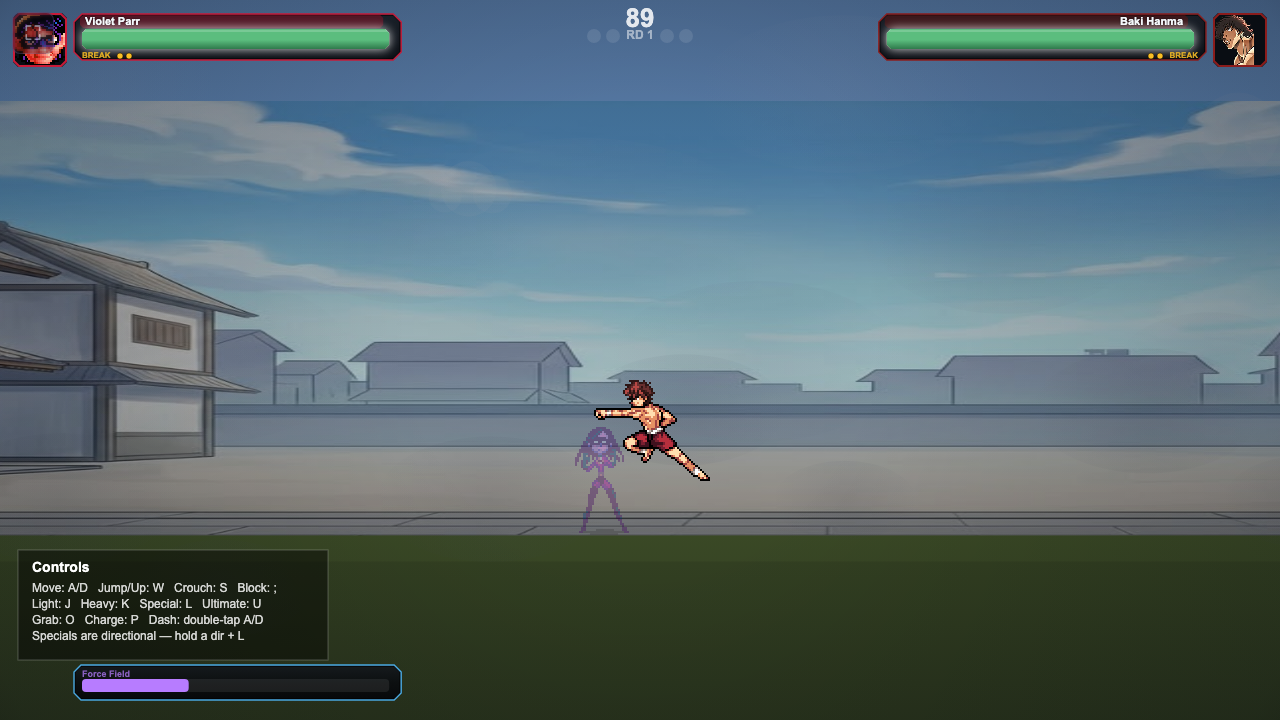
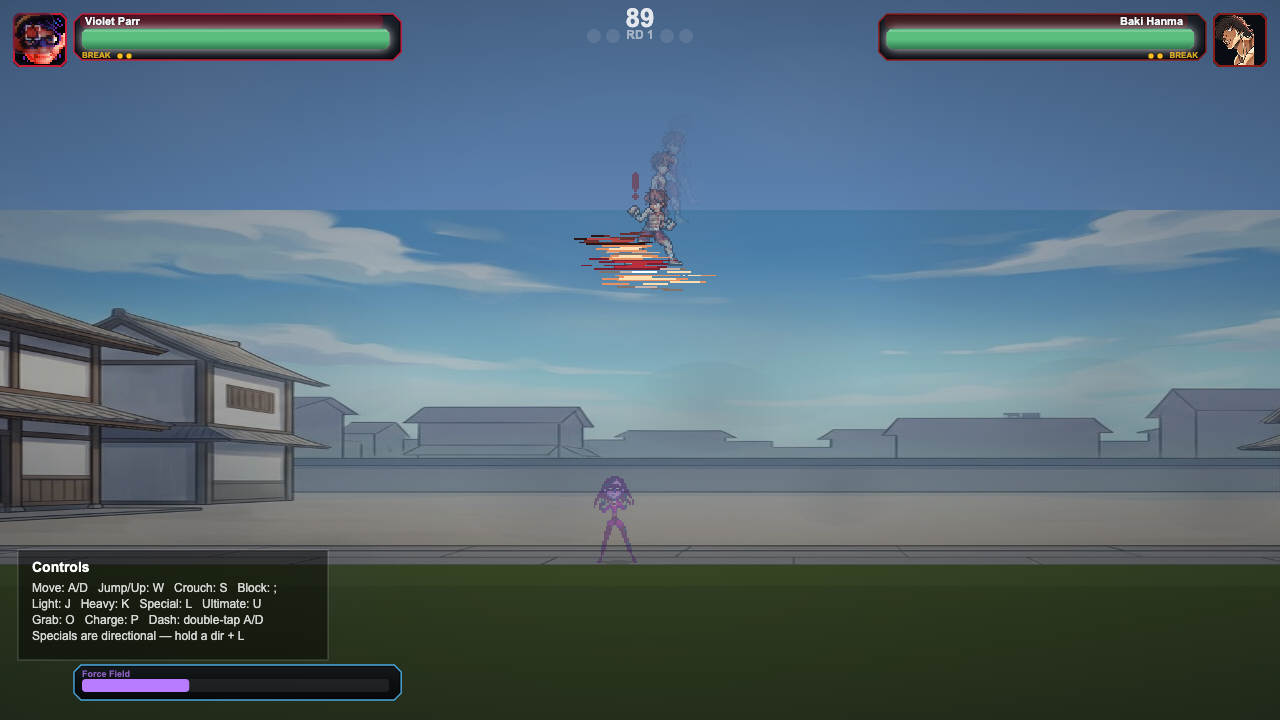
Violet Parr (violet) phase 6: defense
- Bubble Shield: 6 s (360f) cooldown from the cast, on top of its 20 cost.
  A recast inside the cooldown is refused and nothing is spent.
- Phase Step (back, back + Light): uses the R7 strip. Back-step with
  i-frames on frames 3-12 (press frame = 1), free, 5 s (300f) cooldown.
  Drawn at 55% alpha during the i-frames (render-only).
- Protective Instinct: once per round, below 20% health, the next incoming
  strike or projectile pops a free 30f dome. The dome catches that hit
  (projectiles are reflected) and has no cost or cooldown. State lives in
  f._violet and resets with the round.

Fix: body-less moves (the specials and Phase Step) no longer get the shared
default 50 px strike box. getAttackHitbox returns null for them through a
violet-gated hook. Before this they clashed with incoming strikes and both
attacks were cancelled.

New hooks (apply_hooks.py --phase 6): combat.js getAttackHitbox (violetNoBox).
harness/violet_defense.test.mjs 16/0. Moveset 42/0, combos 17/0, stats,
vanish and determinism all green.

Gate:
  determinism 14/0
  combo-standard 231/9 (identical to main)
  roster integrity passes
  frame-data diff zero
  render check passes default and invisible

diff --git a/violetState.js b/violetState.js
@@ -2,14 +2,14 @@
 // no Math.random, no gameRng, no wall clock; any variation comes from vhash(match seed, frame, player index).
 // Every export is a strict no-op for any other rosterKey. Render-only presentation (alpha, flashes, shake, particles)
 // never lives here — violetFx.js reads this state.
-import { violet as V_CHAR, ENERGY, WALK_SPEED_STAT, RUN_SPEED_STAT, VANISH, vhash, MOVES, PUSH, SHIELD, BALL, TRAP, ULT, MOTION } from './violetData.js'
+import { violet as V_CHAR, ENERGY, WALK_SPEED_STAT, RUN_SPEED_STAT, VANISH, vhash, MOVES, PUSH, SHIELD, BALL, TRAP, ULT, MOTION, DEFENSE } from './violetData.js'
 
 export const isViolet = f => f?.rosterKey === 'violet'
 const fresh0 = () => ({ tick: 0, clock: 0, hp: null, run: false, prev: {}, edges: {}, used: {}, downTaps: [], dir: 5, toks: [], fwdTaps: [],
   inv: null, vanishCd: 0, reappear: 0, ambushArmed: false,
-  push: null, trap: null, ult: null, lastHit: null, serial: 0,
+  push: null, trap: null, ult: null, lastHit: null, serial: 0, cd: { shield: 0, phase: 0 }, pshield: 0, instinct: null,
   stats: { hitsLanded: 0, hitsTaken: 0, energyFromHits: 0, runs: 0, vanishes: 0, vanishEnds: {}, ambushHits: 0, rejects: 0,
-    moves: {}, pushHits: 0, pushBlocked: 0, shieldBlocks: 0, reflects: 0, ballHits: 0, ballAbsorbs: 0, traps: 0, trapFizzles: 0, ultHits: 0, chains: 0, jumpCancels: 0 }, cues: [] })
+    moves: {}, pushHits: 0, pushBlocked: 0, shieldBlocks: 0, reflects: 0, ballHits: 0, ballAbsorbs: 0, traps: 0, trapFizzles: 0, ultHits: 0, chains: 0, jumpCancels: 0, phaseSteps: 0, phaseDodges: 0, instincts: 0 }, cues: [] })
 export const vState = f => f._violet ||= fresh0()
 const grounded = f => !!(f.onGround || f.grounded)
 const addEnergy = (f, n) => { f.energy = Math.min(f.maxEnergy || ENERGY.max, (f.energy || 0) + n) }
@@ -189,7 +189,7 @@ export function vStrike(f, t, P, W) {
 }
 
 // ── move start (command layer → here). Specials are grounded; normals follow the air / ground split. ──
-const AIR_ONLY = ['air'], GROUND = ['light', 'heavy', 'vLow', 'up', 'vPush', 'vShield', 'vBall', 'vTrap', 'vUlt']
+const AIR_ONLY = ['air'], GROUND = ['light', 'heavy', 'vLow', 'up', 'vPush', 'vShield', 'vBall', 'vTrap', 'vUlt', 'vPhase']
 export function startVMove(f, key, W, opp, { cancel = false, chain = 0 } = {}) {
   if (!isViolet(f)) return false
   const s = vState(f), md = MOVES[key], g = grounded(f)
@@ -199,6 +199,8 @@ export function startVMove(f, key, W, opp, { cancel = false, chain = 0 } = {}) {
   if (GROUND.includes(key) && !g) return md.isSpecial ? rejectV(f, W) : false
   if (key === 'vPush' && s.push) return rejectV(f, W)                 // one ring on screen
   if (key === 'vTrap' && s.trap) return rejectV(f, W)                 // one trap at a time
+  if (key === 'vShield' && s.cd.shield > 0) return rejectV(f, W)      // 6 s cooldown (nothing spent)
+  if (key === 'vPhase' && s.cd.phase > 0) return rejectV(f, W)        // 5 s cooldown
   if ((md.cost || 0) > (f.energy || 0)) return rejectV(f, W)
   if (cancel) endAttack(f)
   if (!E.startMove || !E.startMove(f, key, md)) return false
@@ -209,7 +211,9 @@ export function startVMove(f, key, W, opp, { cancel = false, chain = 0 } = {}) {
   a.hasHit = !!md.noBody
   f.isBlocking = false; f.isCharging = false
   if (g) f.vx = 0
-  if (key === 'vBall') { f.dashTimer = 0; f.isDashing = false }
+  if (key === 'vBall' || key === 'vPhase') { f.dashTimer = 0; f.isDashing = false }
+  if (key === 'vShield') s.cd.shield = DEFENSE.shieldCooldown
+  if (key === 'vPhase') { s.cd.phase = DEFENSE.phaseCooldown; s.stats.phaseSteps++ }
   if (key === 'vTrap') {
     const t = nearestFoe(f, W, opp)
     const x = t ? ctrX(t) : ctrX(f) + (f.facing || 1) * 220, y = t ? ctrY(t) : ctrY(f)
@@ -222,6 +226,7 @@ export function startVMove(f, key, W, opp, { cancel = false, chain = 0 } = {}) {
 
 // ── defensive states read by combat.js (violet-gated) ──
 export function shieldUp(f) {
+  if (isViolet(f) && f._violet?.pshield > 0) return true            // Protective Instinct dome
   const a = isViolet(f) && vLive(f); if (!a || a.vi.key !== 'vShield') return false
   const e = elapsed(a), md = MOVES.vShield
   return e >= md.startup && e < md.startup + md.active
@@ -230,10 +235,14 @@ export function ballArmored(f) {
   const a = isViolet(f) && vLive(f); if (!a || a.vi.key !== 'vBall') return false
   return elapsed(a) < MOVES.vBall.startup + MOVES.vBall.active
 }
+// combat.getAttackHitbox hook: body-less moves (specials, Phase Step) have NO strike box — without this the shared
+// default (rangeX 0 → 50 px) would give them a box that clashes with incoming strikes.
+export const violetNoBox = (f, a) => isViolet(f) && !!a?.vi && !!MOVES[a.vi.key]?.noBody
 // Melee absorb (combat.js, beside absorbBatman): the dome stops every non-grab strike while it is up.
 export function absorbViolet(f, source, attack) {
-  if (!isViolet(f) || !attack || !shieldUp(f)) return false
+  if (!isViolet(f) || !attack) return false
   if (attack.damageType === 'grab' || attack.category === 'grab' || attack.isGrab) return false
+  if (!shieldUp(f) && !instinct(f)) return false
   const s = vState(f); s.stats.shieldBlocks++; cue(f, 'shieldBlock')
   if (source) source.vx = (Math.sign(ctrX(source) - ctrX(f)) || 1) * 4
   return true
@@ -243,7 +252,7 @@ export function absorbViolet(f, source, attack) {
 export function violetProjectile(f, proj) {
   if (!isViolet(f) || !proj || proj.owner === f) return false
   const s = vState(f)
-  if (shieldUp(f)) {
+  if (shieldUp(f) || instinct(f)) {
     const k = SHIELD.reflect
     proj.vx = -(proj.vx || 0) * k; if (proj.vy) proj.vy *= k
     if (proj.dir != null) proj.dir = -proj.dir
@@ -256,6 +265,20 @@ export function violetProjectile(f, proj) {
   }
   if (ballArmored(f)) { s.stats.ballAbsorbs++; cue(f, 'shieldBlock'); return 'absorb' }
   return false
+}
+// ── PHASE 6: DEFENSE ──
+// Protective Instinct: once per round, below 20 % health, the NEXT incoming strike / projectile pops a free 30f dome
+// that catches it (returns true = this hit is absorbed). Armed state, use and timer live in f._violet (GAME_STATE).
+export function instinct(f) {
+  const s = vState(f)
+  if (s.instinct === 'used' || f.health <= 0 || f.health >= (f.maxHealth || 900) * DEFENSE.instinctBelow) return false
+  s.instinct = 'used'; s.pshield = DEFENSE.instinctFrames; s.stats.instincts++; cue(f, 'instinct')
+  return true
+}
+export function phaseInvuln(f) {
+  const a = isViolet(f) && vLive(f); if (!a || a.vi.key !== 'vPhase') return false
+  const fr = elapsed(a) + 1                                              // press frame = frame 1
+  return fr >= DEFENSE.phaseIframes[0] && fr <= DEFENSE.phaseIframes[1]
 }
 // 85 % per hit (combat._comboScale hook, the Zoro / Buggy precedent): hit n of a combo deals 0.85^(n−1).
 export const violetComboScale = f => Math.pow(0.85, Math.max(0, f.comboCounter || 0))
@@ -297,6 +320,9 @@ function tickMove(f, s, W, opp) {
         }
       }
     } else if (e === md.startup + md.active) f.vx = 0
+  }
+  if (k === 'vPhase') {
+    if (e < md.startup + md.active) f.vx = -dir * DEFENSE.phaseSpeed; else if (e === md.startup + md.active) f.vx = 0
   }
   if (k === 'vUlt' && e === md.startup && !s.ult) {
     const t = nearestFoe(f, W, opp)
@@ -387,8 +413,16 @@ export function tickViolet(f, opp, raw, W) {
     else if (s.inv.t >= VANISH.maxFrames) endVanish(f, 'timeout', W)
     else if ((f.energy || 0) <= 0) endVanish(f, 'empty', W)
   }
+  // ── PHASE 6: cooldowns, instinct dome, Phase Step i-frames ──
+  if (s.cd.shield > 0) s.cd.shield--
+  if (s.cd.phase > 0) s.cd.phase--
+  if (s.pshield > 0) s.pshield--
   // ── PHASE 4: moves / payloads / trap / ultimate ──
   tickMove(f, s, W, opp); tickPush(f, s, W, opp); tickTrap(f, s, W, opp); tickUlt(f, s, W, opp, tookHit)
+  // i-frames: 2 because her own combat update decrements invulnTimer before the foe's strike resolves this frame;
+  // cleared on the first frame after the window so frame 13 is hittable again
+  if (phaseInvuln(f)) { f.invulnTimer = Math.max(f.invulnTimer || 0, 2); s.phaseInv = true }
+  else { if (s.phaseInv && (f.invulnTimer || 0) <= 1) f.invulnTimer = 0; s.phaseInv = false }
   // RUN: a double-tap dash that ends with forward still held keeps going at runSpeed 8.0 until forward is released,
   // she attacks, leaves the ground or is hit. Walking speed is 5.4.
   const fw = !!(f.facing === -1 ? raw.left : raw.right)

diff --git a/violet.js b/violet.js
@@ -5,14 +5,17 @@
 //   ↓↘→ + P      FORCE PUSH (12)        ←↙↓ + P   BUBBLE SHIELD (20)      → → + P   FORCE BALL (15)
 //   ↓↙← + P      FIELD TRAP (22)        ↓↓ + P    VANISH toggle (15)       P alone   FORCE PUSH
 //   ↓↘→↓↘→ + P or Ultimate             FULL FORCE (100)
+//   ← ← + Light   PHASE STEP (free; i-frames 3–12; 5 s cooldown)    Bubble Shield: 6 s cooldown
 // Cancels (clean hit, recovery): Jab → Jab (once) / Low / Heavy / Launcher · Low → Heavy / Launcher · Heavy → Launcher ·
 // any grounded normal → specials / FULL FORCE · a clean Launcher can be jump-cancelled (violetState.violetLocked).
 import { startMove, cancelWindowOpen, getComboScale, getComboHitstunScale } from './combat.js'
 import { isViolet, vState, freshEdge, useEdge, doubleDownSpecial, enterVanish, endVanish, registerVioletEngine, startVMove, rejectV } from './violetState.js'
-import { CHAIN, SPECIAL_FROM } from './violetData.js'
+import { CHAIN, SPECIAL_FROM, DEFENSE, MOTION } from './violetData.js'
 
 registerVioletEngine({ startMove, comboScale: getComboScale, hitstunScale: typeof getComboHitstunScale === 'function' ? getComboHitstunScale : null })
 
+const phaseStepInput = s => { const [a, b] = s.backTaps || [], e = s.edges.light
+  return (s.backTaps || []).length === 2 && b - a <= DEFENSE.phaseTap && e.tick >= b && e.tick - b <= MOTION.press }
 const COMMITTED = new Set(['vPush', 'vShield', 'vBall', 'vTrap', 'vUlt', 'vPhase', 'air'])
 const SPECIAL_OF = { push: 'vPush', shield: 'vShield', ball: 'vBall', trap: 'vTrap', ult: 'vUlt' }
 
@@ -64,6 +67,8 @@ export function updateVioletCommandCombat(f, inp, opp, W) {
   if (f.attackCooldown > 0 || inp.block) return 'grab'
   if (freshEdge(s, 'ultimate')) { useEdge(s, 'ultimate'); startVMove(f, 'vUlt', W, opp); return 'consumed' }
   if (freshEdge(s, 'special')) { doSpecial(f, s, W, opp, false); return 'consumed' }
+  // PHASE STEP ←←+Light (back-step, i-frames 3–12, 5 s cooldown) — takes the Light press when the double-back is fresh
+  if (freshEdge(s, 'light') && phaseStepInput(s)) { useEdge(s, 'light'); startVMove(f, 'vPhase', W, opp); return 'consumed' }
   for (const k of ['upAttack', 'light', 'heavy']) {
     if (!freshEdge(s, k)) continue
     useEdge(s, k)

diff --git a/violetHarness.js b/violetHarness.js
@@ -1,9 +1,9 @@
 // Test-only accessor for harness/violet*.mjs (exposed as __harness.violetTest; harness URLs only). Read-mostly: the only
 // writers are reset / setEnergy (scenario setup before driving real inputs).
 import { getAttackHitbox } from './combat.js'
-import { violet, MOVES, TIMELINE, SCALE, ENERGY, VANISH, PUSH, SHIELD, BALL, TRAP, ULT, MOTION } from './violetData.js'
+import { violet, MOVES, TIMELINE, SCALE, ENERGY, VANISH, PUSH, SHIELD, BALL, TRAP, ULT, MOTION, DEFENSE } from './violetData.js'
 import { violetAlpha } from './violetView.js'
-import { clearViolet, vState, shieldUp, startVMove } from './violetState.js'
+import { clearViolet, vState, shieldUp, startVMove, phaseInvuln } from './violetState.js'
 import { VIOLET_ANIM } from './violetSprites.js'
 import { VIOLET_SKINS } from './violetSkins.js'
 export function violetHarnessApi(g) {
@@ -20,8 +20,10 @@ export function violetHarnessApi(g) {
       g.projectiles?.().push(p); return true },
     projs: () => (g.projectiles?.() || []).map(p => ({ x: p.x, vx: p.vx, owner: p.owner === g.p1() ? 'p1' : p.owner === g.p2() ? 'p2' : '?', refl: p._violetReflected || 0, name: p.name })),
     shieldUp: (w = 'p1') => shieldUp(raw(w)),
+    phaseInvuln: (w = 'p1') => phaseInvuln(raw(w)),
+    setHp: (hp, w = 'p1') => { raw(w).health = hp },
     skins: () => VIOLET_SKINS.map(s => ({ id: s.id, name: s.name })),
-    data: () => clone({ moves: MOVES, timeline: TIMELINE, scale: SCALE, stats: violet.stats, energy: ENERGY, traits: violet.traits, vanish: VANISH, push: PUSH, shield: SHIELD, ball: BALL, trap: TRAP, ult: ULT, motion: MOTION }),
+    data: () => clone({ moves: MOVES, timeline: TIMELINE, scale: SCALE, stats: violet.stats, energy: ENERGY, traits: violet.traits, vanish: VANISH, push: PUSH, shield: SHIELD, ball: BALL, trap: TRAP, ult: ULT, motion: MOTION, defense: DEFENSE }),
     state: (w = 'p1') => { const f = raw(w), a = f.currentAttack, act = f._lastSpriteAction || null
       return { key: f.rosterKey, hp: f.health, maxHp: f.maxHealth, energy: f.energy, maxEnergy: f.maxEnergy, x: f.x, y: f.y, w: f.w, h: f.h, vx: f.vx, vy: f.vy, facing: f.facing,
         grounded: !!(f.onGround || f.grounded), jumpCount: f.jumpCount || 0, blocking: !!f.isBlocking,

diff --git a/violetData.js b/violetData.js
@@ -45,8 +45,15 @@ export const MOVES = {
   vShield: sp(4, 40, 10, { cost: 20 }),                      // BUBBLE SHIELD ←↙↓+P: R15 dome 40f, blocks all strikes, reflects ×1.2, 10f recovery
   vBall: sp(8, 20, 14, { cost: 15 }),                        // FORCE BALL →→+P: 320 px rolling lunge, 30 + 30, projectile armour
   vTrap: sp(6, 2, 14, { cost: 22 }),                         // FIELD TRAP ↓↙←+P: bubble at the foe's cast position after 18f, traps 45f, 0 dmg
+  vPhase: sp(1, 11, 6, { isSpecial: false, category: 'movement' }),   // PHASE STEP ←←+Light: back-step, i-frames 3–12, no cost
   vUlt: sp(12, 70, 90, { cost: 100, category: 'ultimate', isUltimate: true }),   // FULL FORCE ↓↘→↓↘→+P: 30 + 40 + 150 = 220 unscaled, 90f lockout
 }
+// ── PHASE 6: DEFENSE ──
+// Bubble Shield: 6 s cooldown (from the cast) on top of its 20 cost. Phase Step ←←+Light: R7 strip, back-step with
+// i-frames on frames 3–12 (press frame = 1), 5 s cooldown. Protective Instinct: once per round, below 20 % health, the
+// next incoming strike / projectile pops a FREE 30f dome (the triggering hit is caught by it; no cost, no cooldown).
+export const DEFENSE = { shieldCooldown: 360, phaseCooldown: 300, phaseIframes: [3, 12], phaseSpeed: 7, phaseTap: 14,
+  instinctBelow: 0.20, instinctFrames: 30 }
 // Payload tuning (sim px / frames). raw = authored on-hit damage / 0.60 (the strike path applies the shared 0.60 scale).
 export const PUSH = { speed: 13, range: 520, raw: 84, hitstun: 22, blockstun: 14, kb: [11, -3], r: 30 }
 export const SHIELD = { reflect: 1.2, r: 64 }
@@ -64,7 +71,7 @@ export const TIMELINE = {
   light: [[0, 0], [3, 1], [7, 2]], heavy: [[0, 0], [5, 1], [10, 2], [13, 3], [20, 4]], vLow: [[0, 0], [7, 1]],
   up: [[0, 0], [11, 1]], air: [[0, 0], [4, 1], [7, 2]],
   vPush: [[0, 0], [4, 1], [8, 2], [10, 3], [16, 4]], vShield: [[0, 0], [2, 1], [4, 2]], vBall: [[0, 0], [4, 1], [8, 2], [12, 3]],
-  vTrap: [[0, 0]], vUlt: [[0, 0], [12, 1], [30, 2], [50, 3], [70, 4], [100, 5]],
+  vTrap: [[0, 0]], vPhase: [[0, 0], [3, 1], [6, 2], [9, 3], [12, 4], [15, 5]], vUlt: [[0, 0], [12, 1], [30, 2], [50, 3], [70, 4], [100, 5]],
 }
 
 export const violet = {

diff --git a/combat.js b/combat.js
@@ -8,7 +8,7 @@ import { spdGreenHitbox, spdGreenBlock, spdGreenHit } from './spdGreenState.js' 
 import { mmprBlackHitbox, mmprBlackBlock, mmprBlackHit, mmprBlackProjectileHit } from './mmprBlackState.js'   // Black Ranger hooks (mmpr_black-gated)
 import { mmprWhiteHitbox, mmprWhiteBlock, mmprWhiteHit } from './mmprWhiteState.js'   // White Ranger hooks (mmpr_white-gated)
 import { batmanHitbox, batmanBlock, batmanHit, absorbBatman } from './batmanState.js'   // Batman (rebuilt) hooks (batman-gated)
-import { violetHit, violetBlock, violetKnockback, violetComboScale, absorbViolet, violetProjectile } from './violetState.js'   // Violet Parr hooks (violet-gated)
+import { violetHit, violetBlock, violetKnockback, violetComboScale, absorbViolet, violetProjectile, violetNoBox } from './violetState.js'   // Violet Parr hooks (violet-gated)
 import { mmprPinkHitbox, mmprPinkBlock, mmprPinkHit, mmprPinkProjectileHit } from './mmprPinkState.js'   // Pink Ranger hooks (mmpr_pink-gated)
 import { spdPinkHitbox, spdPinkBlock, spdPinkHit, spdPinkCounter } from './spdPinkState.js'   // S.P.D. Pink hooks (spd_pink-gated)
 import { buggyNullifyMelee, buggyNullifyProjectile, buggyNullifyDamage } from './buggyState.js'   // Buggy: Bara Bara no Mi slash immunity (buggy-gated)
@@ -706,6 +706,7 @@ export function getAttackHitbox(fighter) {
   if (a?.mb && fighter.rosterKey === 'mmpr_black') return mmprBlackHitbox(fighter)   // Black Ranger: per-move box + Crescent Break contact windows
   if (a?.mw && fighter.rosterKey === 'mmpr_white') return mmprWhiteHitbox(fighter)   // White Ranger: per-move box; body-less order / signal / feint have none
   if (a?.bm && fighter.rosterKey === 'batman') return batmanHitbox(fighter)   // Batman: per-move box from the drawn limb (body hurtbox unchanged)
+  if (a?.vi && fighter.rosterKey === 'violet' && violetNoBox(fighter, a)) return null   // Violet: body-less specials / Phase Step have no strike box (no clash); violet-gated
 
   // Generic REACH multiplier: any fighter can set `_reachMult` (>1) to extend the horizontal reach of its
   // attacks for a duration (Hiruzen's Enma / Monkey-King-Staff buff — the bo staff's long reach). Defaults

diff --git a/violetView.js b/violetView.js
@@ -2,7 +2,8 @@
 // (vanish) → R11 invisible stance / walk → R9 invisible crouch, all drawn at 35 % alpha; on exit R12 fades her back in.
 // Attacks / jumps / hurt keep their own strips (at 35 % while invisible).
 import { VANISH } from './violetData.js'
-export const violetAlpha = f => (f?.rosterKey === 'violet' && f._violet?.inv) ? VANISH.alpha : 1
+// Vanish 35 %; Phase Step i-frames 55 % (she half-phases out of sight); render-only reads of sim flags
+export const violetAlpha = f => f?.rosterKey !== 'violet' || !f._violet ? 1 : f._violet.inv ? VANISH.alpha : f._violet.phaseInv ? 0.55 : 1
 export function violetSpriteAction(f, act) {
   if (f?.rosterKey !== 'violet' || !f._violet) return act
   const s = f._violet

diff --git a/violetFx.js b/violetFx.js
@@ -57,6 +57,7 @@ export function drawVioletFx(c, f) {
     if (k === 'vPush' && e < md.startup) ring(c, ctrX(f) + dir * 34, f.y + (f.h || 94) * 0.45, 6 + e * 2, ringCol(f), 0.7 * inv)
     if (k === 'vUlt' && e < md.startup) ring(c, ctrX(f), ctrY(f), 70 - e * 4, ringCol(f), 0.8, null, 4)
   }
+  if (s.pshield > 0) strip(c, f, 'dome', Math.min(5, 30 - s.pshield), ctrX(f), ctrY(f), SCALE, false, Math.min(1, s.pshield / 8) * 0.9 * inv)   // Protective Instinct
   if (s.push) strip(c, f, 'push', Math.floor(s.push.trav / 26), s.push.x, s.push.y, SCALE * 0.8, s.push.dir < 0, 0.95)
   const T = s.trap
   if (T) {

diff --git a/tools/violet/apply_hooks.py b/tools/violet/apply_hooks.py
@@ -97,6 +97,11 @@ HOOKS = [
    "  drawVioletScreen(ctx, canvas, p1, p2)   // Violet FULL FORCE detonation flash (render-only; gated)", "drawVioletScreen(ctx, canvas"),
   (4, 'game.js', "    violetTest: violetHarnessApi({p1:()=>p1,p2:()=>p2,reset:", 'replace',
    "    violetTest: violetHarnessApi({p1:()=>p1,p2:()=>p2,projectiles:()=>activeProjectiles,reset:", "violetHarnessApi({p1:()=>p1,p2:()=>p2,projectiles:"),
+  # ── phase 6: DEFENSE (body-less moves have no strike box → no clash) ──
+  (6, 'combat.js', "import { violetHit, violetBlock, violetKnockback, violetComboScale, absorbViolet, violetProjectile } from './violetState.js'", 'replace',
+   "import { violetHit, violetBlock, violetKnockback, violetComboScale, absorbViolet, violetProjectile, violetNoBox } from './violetState.js'", "violetProjectile, violetNoBox }"),
+  (6, 'combat.js', "  if (a?.bm && fighter.rosterKey === 'batman') return batmanHitbox(fighter)", 'after_line',
+   "  if (a?.vi && fighter.rosterKey === 'violet' && violetNoBox(fighter, a)) return null   // Violet: body-less specials / Phase Step have no strike box (no clash); violet-gated", "violetNoBox(fighter, a)) return null"),
 ]
 
 def main():
